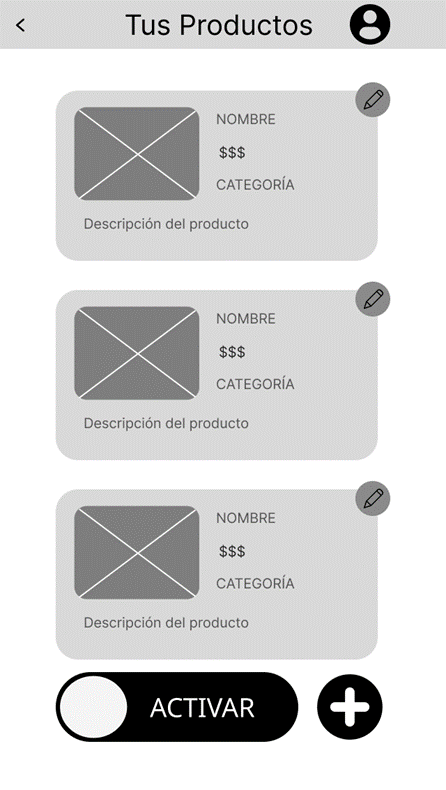
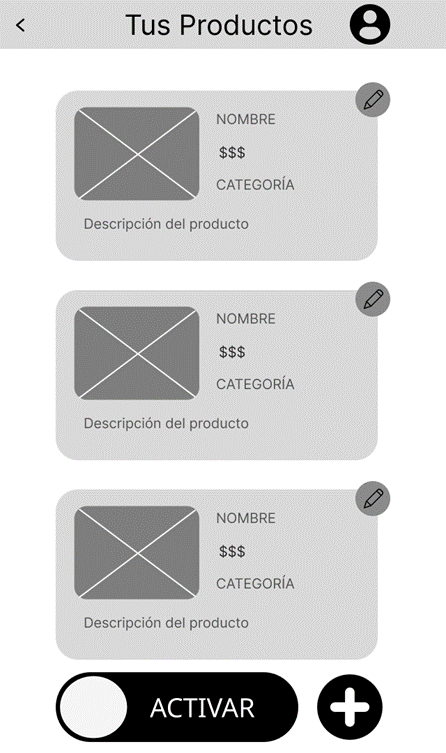
switch en tus productos

diff --git a/dev/css/tusProductos.scss b/dev/css/tusProductos.scss
@@ -1,36 +1,175 @@
+* {
+    margin: 0;
+}
+
 #tusProductos{
-    
     background-image: url('/dev/img/home_vendedor_figma.png');
     background-size: cover;
+    display: flex;
+    justify-content: center;
+}
+    
+.seccion {
+    height: 568px;
+    width: 320px;
+    border: 1px solid black;
 }
 
-.buscador{
-    height: 45px;
+.flecha_atras {
+    position: absolute;
+    left: 10px;
+}
+
+.perfil {
+    position: absolute;
+    width: 28px;
+    left: 280px;
+}
+
+.navbar{
+    background-color: rgb(219,219,219);
+    height: 34px;
+    width: 320px;
+    border: 1px solid black;
     display: flex;
     justify-content: center;
     align-items: center;
 }
 
-.categorias{
-    display: flex;
-    justify-content: space-around;
-    align-items: center;
-    padding: 0 30px;
+.productos {
+    margin: 15px 0;
+    padding: 0 35px;
+    flex: 1;
+    overflow-y: auto;
+    scrollbar-width: none;
+
 }
 
-.categoria{
+.producto {
+    position: relative;
+    width: 100%;
+    margin: 18px 0;
+    height: 105px;
+    border: 1px solid black;
+    padding: 10px 12px;
+    border-radius: 18px;
+    display: flex;
+    box-sizing: border-box;
+}
+
+.productos .producto:first-child {
+    margin-top: 0;
+}
+
+.productos .producto:last-child {
+    margin-bottom: 45px;
+}
+
+.foto-producto {
+    height: 85px;
+    width: 90px;
+    border-radius: 8px;
+}
+
+.foto-producto img {
+    object-fit: cover;
+    border-radius: inherit;
+    height: 100%;
+    width: 100%;
+}
+
+.informacion-producto {
+    margin-left: 10px;
+    font-size: 12px;
     display: flex;
     flex-direction: column;
-    align-items: center;
-    justify-content: center;
+    justify-content: space-evenly;
 }
 
-.categoria-fondo{
-    border-radius: 50%;
-    height: 76px;
-    width: 76px;
-    background: gray;
+.precio-producto {
+    position: absolute;
+    bottom: 8px;
+    right: 10px;
+    font-size: 12px;
+}
+
+.barra-inferior {
+    background-color: rgb(219,219,219, 0.5);
+    height: 50px;
+    width: 320px;
+    border: 1px solid black;
+    position: fixed;
+    bottom: 0;
+    left: 0;
     display: flex;
     justify-content: center;
     align-items: center;
+    z-index: 1000; 
 }
+
+.add {
+    position: absolute;
+    width: 37px;
+    left: 250px;
+}
+
+.switch {
+    position: relative;
+    display: inline-block;
+    width: 150px;
+    height: 40px;
+}
+
+.switch input {
+    opacity: 0;
+    width: 0;
+    height: 0;
+}
+
+.slider {
+    position: absolute;
+    cursor: pointer;
+    top: 0;
+    left: 0;
+    right: 0;
+    bottom: 0;
+    background-color: #ccc;
+    transition: .4s;
+    border-radius: 34px;
+}
+
+.slider:before {
+    position: absolute;
+    content: "";
+    height: 32px;
+    width: 32px;
+    left: 4px;
+    bottom: 4px;
+    background-color: white;
+    transition: .5s;
+    border-radius: 50%;
+}
+
+input:checked + .slider {
+    background-color: #2196F3;
+}
+
+input:focus + .slider {
+    box-shadow: 0 0 1px #2196F3;
+}
+
+input:checked + .slider:before {
+    transform: translateX(110px);
+}
+
+#estado-interruptor {
+    position: absolute;
+    top: 50%;
+    left: 45px; 
+    transform: translateY(-50%);
+}
+
+.switch-desactivado{
+    left: 35px !important; 
+}
+

diff --git a/dev/tusProductos.html b/dev/tusProductos.html
@@ -5,15 +5,17 @@
     <meta charset="UTF-8">
     <meta name="viewport" content="width=device-width, initial-scale=1.0">
     <title>Document</title>
-    <link rel="stylesheet" href="../css/tusProductos.scss">
+    <link rel="stylesheet" href="./css/tusproductos.scss">
 </head>
 
 <body>
+    <nav class="navbar">
+        <img class="flecha_atras" src="/dev/img/iconos/flecha-izquierda.png" alt="Flecha para atras"></img>
+        <img class="perfil" src="/dev/img/iconos/perfil3.png" alt="mi perfil"></img>
+        <h2>Tus Productos</h2>
+    </nav>
     <section id="tusProductos" class="seccion">
-        <nav class="navbar">
-            <h2>Tus Productos</h2>
-            <img class="flecha_atras" src="/dev/img/iconos/flecha-izquierda.png" alt="Flecha para atras"></img>
-        </nav>
+        
         <section class="productos">
             <div class="producto">
                 <div class="foto-producto center">
@@ -95,6 +97,16 @@
             </div>
         </section>
     </section>
+    <footer class="barra-inferior">
+        <label class="switch">
+            <input type="checkbox" id="interruptor">
+            <span class="slider"></span>
+            <span id="estado-interruptor">Activar</span>
+        </label>
+        <img class="add" src="/dev/img/iconos/add.png" alt="add"></img>
+    </footer>
+
+    <script src="./js/tusProductos.js"></script>
 </body>
 
 </html>

diff --git a/dev/js/tusProductos.js b/dev/js/tusProductos.js
@@ -1,0 +1,12 @@
+const interruptor = document.getElementById("interruptor");
+const estadoInterruptor = document.getElementById("estado-interruptor");
+
+interruptor.addEventListener("change", function() {
+    if (this.checked) {
+        estadoInterruptor.textContent = "Desactivar";
+        estadoInterruptor.classList.add('switch-desactivado');
+    } else {
+        estadoInterruptor.textContent = "Activar";
+        estadoInterruptor.classList.remove('switch-desactivado');
+    }
+});
